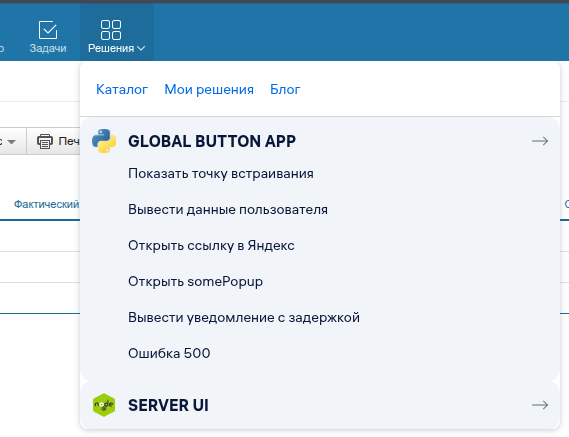
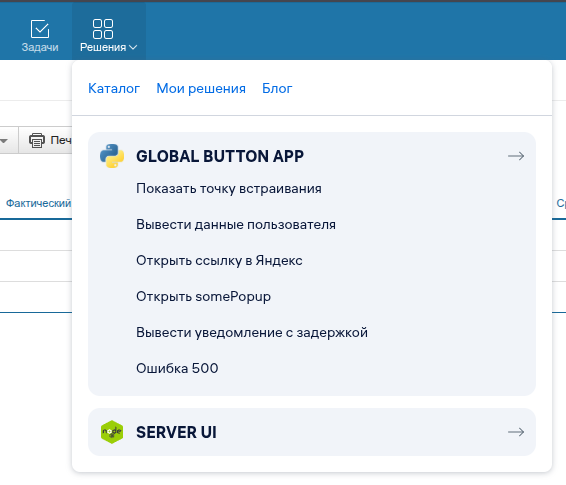
AS-4820 добавить новые скриншоты, перенести описание работы с меню в Главные окна

diff --git a/md/developer_guide/_custom_buttons.md b/md/developer_guide/_custom_buttons.md
@@ -6,25 +6,31 @@
 
 ### Глобальные кнопки
 
-Для глобальной кнопки укажите `<global.application.menu/>` в `locations`. Такая кнопка отображается в выпадающем меню «Решения» и на одноимённой боковой панели, в том числе у решения без главного окна.
+Глобальные кнопки отображаются в выпадающем меню «Решения» и на одноимённой боковой панели, в том числе у решения без главного окна.
+Они подходят для операций на уровне решения или аккаунта, которые пользователь может запустить с любой страницы МоегоСклада.
 
-Выпадающее меню открывается, когда пользователь наводит курсор на пункт **Решения** в главном меню.
+Например, глобальная кнопка может:
+
+* Запустить импорт заказов из интернет-магазина
+* Синхронизировать остатки товаров с маркетплейсом
+* Открыть форму загрузки файла для массового обновления товаров
+* Показать статус последней синхронизации
+
+Ниже приведены примеры таких меню для решений с глобальными кнопками и без.
 
 ![Глобальные кнопки в выпадающем меню «Решения»](./images/global-buttons-popover.png)
 
-При нажатии на пункт **Решения** открывается боковая панель, если на аккаунте есть решения с быстрым доступом — с главным окном или глобальными кнопками. Если таких решений нет, открывается каталог решений.
-
 ![Глобальные кнопки на боковой панели «Решения»](./images/global-buttons-sidepanel.png)
 
-В выпадающем меню и на боковой панели сначала отображаются активированные решения, затем — решения, требующие настройки. В каждой группе карточки отсортированы по названию в алфавитном порядке. Кнопки внутри карточки отображаются в том же порядке, в котором они указаны в блоке `buttons` дескриптора.
-
-Чтобы та же кнопка отображалась в документе или списке, дополнительно укажите нужную точку встраивания в `locations`.
+Поведение меню и порядок карточек описаны в разделе [«Быстрый доступ из главного меню»](#/developer-guide/iframes#4-bystryj-dostup-iz-glavnogo-menyu).
+Кнопки внутри карточки решения отображаются в порядке, заданном в блоке `buttons` дескриптора.
 
 ### Локальные кнопки
 
-В карточках и списках документов и сущностей кнопки отображаются в локальном меню «Решения». С их помощью пользователь может выполнить одно из следующих действий.
+Локальные кнопки отображаются в меню «Решения» в документах, списках и карточках сущностей.
+С их помощью пользователь может выполнять определенные действия над документами и сущностями, такие как:
 
-* Создать ссылку на оплату
+* Создать ссылку на оплату для заказа покупателя
 * Проверить контрагента
 * Открыть чат с клиентом
 * Отправить выделенные документы в ЭДО
@@ -46,37 +52,6 @@
 ![useful image](./images/confirm-click-button.png)
 
 Если кнопка не зависит от выбранных элементов, диалог подтверждения можно пропустить. См. атрибут `useSelected` в [buttons](#/developer-guide/app-descriptor#3-blok-buttons).
-
-> Дескриптор решения с 3 кнопками на странице Заказа покупателя
-
-```xml
-   <ServerApplication xmlns="https://apps-api.moysklad.ru/xml/ns/appstore/app/v2"
-                xmlns:xsi="http://www.w3.org/2001/XMLSchema-instance"
-                xsi:schemaLocation="https://apps-api.moysklad.ru/xml/ns/appstore/app/v2
-         https://apps-api.moysklad.ru/xml/ns/appstore/app/v2/application-v2.xsd">
-       <iframe>...</iframe>
-       <vendorApi>...</vendorApi>
-       <access>...</access>
-        <buttons>
-            <button name="button1" title="Отправить контрагенту">
-                <locations>
-                    <document.customerorder.edit/>
-                </locations>
-            </button>
-            <button name="button2" title="Сформировать цифровую подпись">
-                <locations>
-                    <document.customerorder.create/>
-                    <document.customerorder.edit/>
-                </locations>
-            </button>
-            <button name="button3" title="Импортировать документы" useSelected="false">
-                <locations>
-                    <document.customerorder.list/>
-                </locations>
-            </button>
-        </buttons>
-</ServerApplication>
-```
 
 ### Обработка нажатия
 

diff --git a/md/developer_guide/_app_descriptor.md b/md/developer_guide/_app_descriptor.md
@@ -739,23 +739,10 @@
 
 Описывает кастомные кнопки решения и места их отображения в МоемСкладе.
 
-- Чтобы задать имя кнопки, отправляемое на сервер при нажатии, используйте атрибут `button.name` (обязательный).
-- Чтобы задать заголовок кнопки в интерфейсе, используйте атрибут `button.title` (обязательный).
-- Чтобы указать, где показывать кнопку, перечислите точки встраивания в теге `locations` (обязательный). Для [глобальной кнопки](#/developer-guide/custom-buttons#3-globalnye-knopki) добавьте `<global.application.menu/>`. Эту точку можно совмещать с локальными точками встраивания одной кнопки.
-- Чтобы на страницах списков отключить проверку наличия выбранных элементов и пропустить диалог подтверждения массовой операции, используйте атрибут `useSelected` (опциональный, по умолчанию `true`). При `false` выбранные элементы не учитываются.
-
-> Кнопка в главном меню «Решения» и в списке Заказов покупателей
-
-```xml
-<buttons>
-  <button name="import-orders" title="Импортировать заказы" useSelected="false">
-    <locations>
-      <global.application.menu/>
-      <document.customerorder.list/>
-    </locations>
-  </button>
-</buttons>
-```
+- `button.name` — обязательное имя кнопки. МойСклад передаёт его в поле `buttonName` при нажатии.
+- `button.title` — обязательный заголовок кнопки в интерфейсе.
+- `locations` — обязательный список точек встраивания. Чтобы показать кнопку в выпадающем меню и на боковой панели «Решения», добавьте `<global.application.menu/>`. В той же кнопке можно указать точки встраивания для конкретных страниц.
+- `useSelected` — необязательный атрибут кнопки со значением `true` по умолчанию. Он применяется только в точках `*.list`. Значение `false` позволяет запустить действие без выбора объектов и диалога подтверждения.
 
 Сейчас доступны следующие точки встраивания:
 
@@ -821,8 +808,21 @@
         <entity.counterparty.list/>
       </locations>
     </button>
-    <button name="button4" title="Импортировать заказы" useSelected="false">
+  </buttons>
+</ServerApplication>
+```
+
+> Блок buttons с глобальной кнопкой, которая дополнительно выводится в списке Заказов покупателей
+
+```xml
+<ServerApplication ...>
+  <iframe>...</iframe>
+  <vendorApi>...</vendorApi>
+  <access>...</access>
+  <buttons>
+    <button name="import-orders" title="Импортировать заказы" useSelected="false">
       <locations>
+        <global.application.menu/>
         <document.customerorder.list/>
       </locations>
     </button>

diff --git a/md/developer_guide/_iframes.md b/md/developer_guide/_iframes.md
@@ -19,11 +19,27 @@
 
 Главное окно решения — это основной iframe для настройки или работы с серверным решением. Пользователь может открыть его несколькими способами.
 
-- Через пункт **Решения** в главном меню. Окно открывается при нажатии на название решения в выпадающем меню или на боковой панели. Примеры меню и панели см. в разделе [«Глобальные кнопки»](#/developer-guide/custom-buttons#3-globalnye-knopki).
+- Через пункт **Решения** в главном меню.
 - Через кнопку **Начать работу** в каталоге решений.
 - По прямой ссылке вида `https://online.moysklad.ru/app/#embed-apps?id={appId}`.
 
 Главное окно начинает отображаться после перехода решения в статус **Activated** или **SettingsRequired**.
+
+#### Быстрый доступ из главного меню
+
+При наведении на пункт **Решения** открывается выпадающее меню. Пользователь может перевести курсор с пункта на меню и прокрутить список решений.
+
+Стрелка справа от названия указывает, что у решения есть главное окно. Нажатие на название открывает это окно.
+
+![Выпадающее меню «Решения» с карточками решений](./images/global-buttons-popover-settings.png)
+
+При нажатии на пункт **Решения** открывается боковая панель с теми же карточками. Если на аккаунте нет решений с быстрым доступом или список не загрузился, открывается каталог решений.
+
+![Боковая панель «Решения» с карточками решений](./images/global-buttons-sidepanel-settings.png)
+
+В обоих списках сначала отображаются активированные решения с главным окном или [глобальными кнопками](#/developer-guide/custom-buttons#3-globalnye-knopki). За ними идут решения с главным окном и меткой **Требуется настройка**. В каждой группе карточки отсортированы по названию решения в алфавитном порядке.
+
+#### Высота главного окна
 
 Если содержимое iframe не умещается в минимальную допустимую высоту окна (768px), то необходимо настроить автоматическое 
 масштабирование высоты окна в зависимости от контента. Для этого в iframe нужно реализовать отправку сообщения

diff --git a/md/changelog/_changelog_changes.md b/md/changelog/_changelog_changes.md
@@ -2,7 +2,7 @@
 
 ### 23-11-2026
 **Добавлено**
-- В [дескриптор решений](#/developer-guide/app-descriptor#2-deskriptor-resheniya) добавлена новая точка встраивания для [Глобальных кастомных кнопок](#/developer-guide/custom-buttons#3-globalnye-knopki): `global.application.menu`.
+- В [блок `buttons` дескриптора](#/developer-guide/app-descriptor#3-blok-buttons) добавлена точка встраивания для [Глобальных кастомных кнопок](#/developer-guide/custom-buttons#3-globalnye-knopki): `global.application.menu`.
 
 ### 19-11-2026
 **Добавлено**
